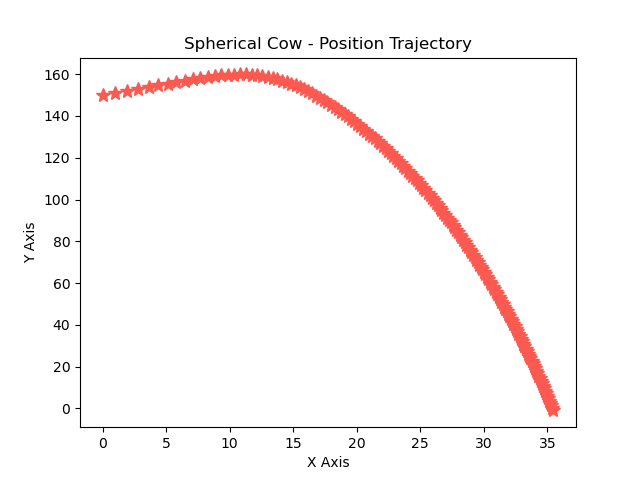
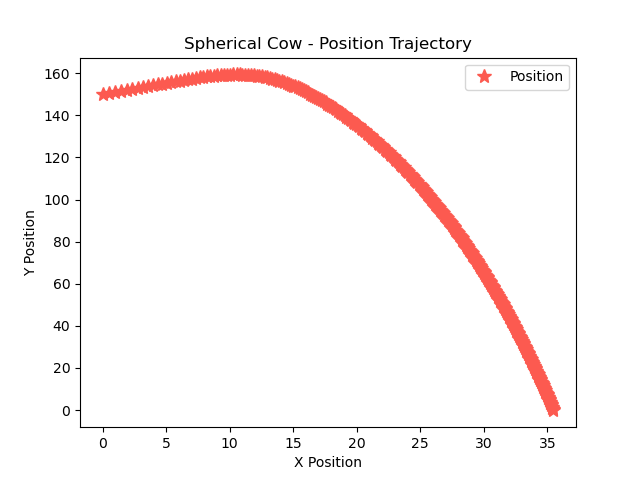
updated energy page

diff --git a/spherical_cow.py b/spherical_cow.py
@@ -6,17 +6,19 @@ import matplotlib.pyplot as plt
 #################################### global constants ####################################
 gravf_strength = 9.81 # in m/s^2
 mass = 1000
-drag_const = 0.47 # for a spherical object
+drag_const = 0.07 # for a spherical object
 
 ################################# user defined constants #################################
 v0 = (10, 10)     # in (vx0, vy0), a touple
 p0 = (0, 150)     # in (x0, y0)
 v_list = []
 p_list = []
-E_list = []
+PE_list = []
+KE_list = []
+TE_list = []
 
 # num_of_timesteps = $3
-size_of_timesteps = 0.1 # size of plot points, in seconds
+size_of_timesteps = 0.05 # size of plot points, in seconds
  
 ##################################### helper functions ##########################################
 def find_force(v_now, p_now):
@@ -65,7 +67,8 @@ def find_energies(v_now, p_now):
     PE = mass * gravf_strength * height
 
     vx_now, vy_now = v_now[0], v_now[1]
-    KE = 1/2 * mass * math.sqrt(vx_now ** 2 + vy_now ** 2) **2
+    # KE = 1/2 * mass * math.sqrt(vx_now ** 2 + vy_now ** 2) **2
+    KE = 1/2 * mass * (vx_now ** 2 + vy_now ** 2)
 
     TE = PE + KE
 
@@ -82,8 +85,10 @@ if __name__ == "__main__":
     p_list.append(p0)  # adding to the lists of touples for position
     v_current = v0
     p_current = p0
-    E_current = find_energies(v_current, p_current) # finding energy for now
-    E_list.append(E_current) # append current energy to the energy list
+    PE, KE, TE = find_energies(v_current, p_current) # finding energy for now
+    PE_list.append(PE) # append current energy to the energy list
+    KE_list.append(KE)
+    TE_list.append(TE)
 
     '''
     x_list2 = []
@@ -113,12 +118,15 @@ if __name__ == "__main__":
         v_current, p_current = find_vp(v_current, p_current, size_of_timesteps)
         v_list.append(v_current)
         p_list.append(p_current)
-        # E_list.append(find_energies(v_current, p_current))
+        PE, KE, TE = find_energies(v_current, p_current) # finding energy for now
+        PE_list.append(PE) # append current energy to the energy list
+        KE_list.append(KE)
+        TE_list.append(TE)
     
 
     x_list, y_list = zip(*p_list)
-    print(x_list)
-    print(y_list)
+    # print(x_list)
+    # print(y_list)
 
     plt.plot(x_list, y_list,
             color = '#fc5a50', # coral
@@ -127,11 +135,27 @@ if __name__ == "__main__":
             markersize = 10,
             label = "Position")
     plt.title('Spherical Cow - Position Trajectory')
-    plt.xlabel('X Axis')
-    plt.ylabel('Y Axis')
+    plt.xlabel('X Position')
+    plt.ylabel('Y Position')
+    plt.legend()
 
     plot_destination = "cow_figures/cow_traj.png"
     plt.savefig(plot_destination)
+
+    plt.clf()
+    t = np.arange(len(p_list)) * size_of_timesteps
+
+    plt.plot(t, PE_list, label = "Potential Energy")
+    plt.plot(t, KE_list, label = "Kinetic Energy")
+    plt.plot(t, TE_list, label = "Total Energy")
+
+    plt.title('Spherical Cow - Energy')
+    plt.xlabel('Time [s]')
+    plt.ylabel('Energy [J]')
+    plt.legend()
+
+    plot_destination2 = "cow_figures/cow_energies.png"
+    plt.savefig(plot_destination2) 
 
     '''
     plt.plot(x_list2, y_list2,
